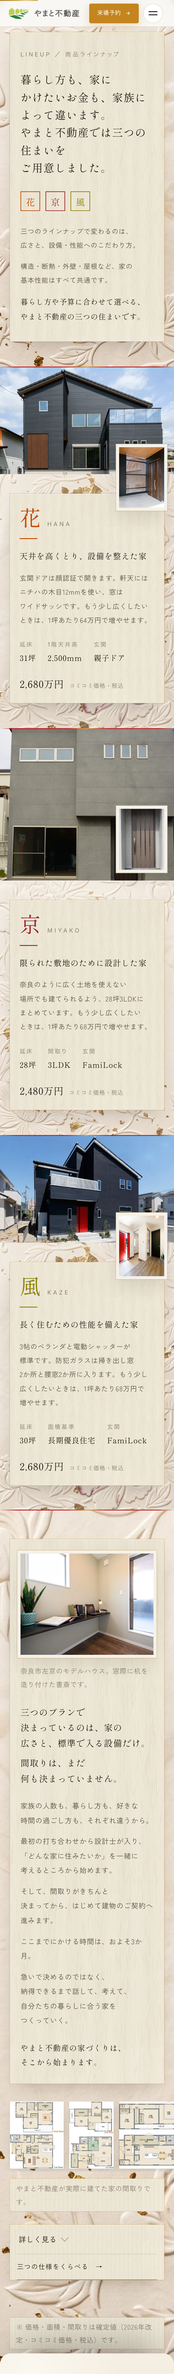
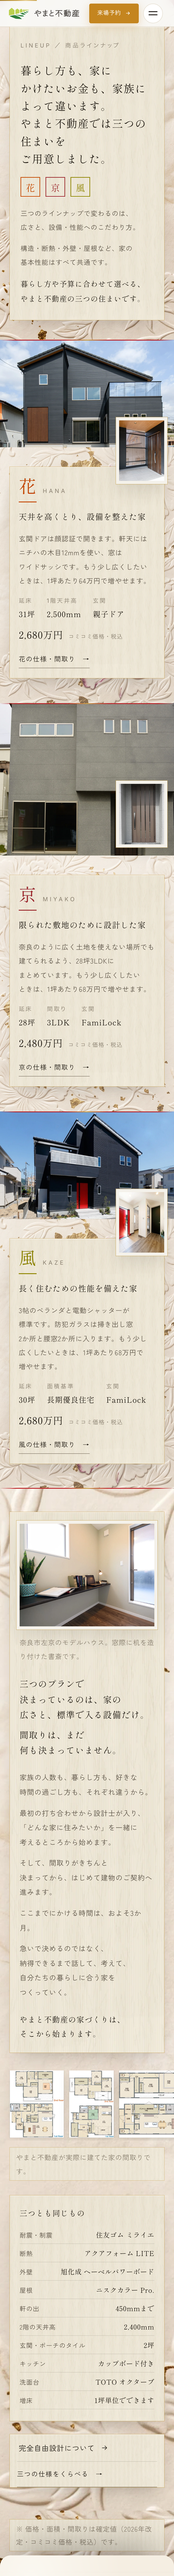
lineup: 密度設計の4手を適用（八芳園・星のや実測にもとづく）
ユーザー指摘「1セクションの役割・情報が少ない。間延びしている」。
実測の結論: 密度は文章ではなく「出口」と「構造化されたリスト」に住む。
上層は詩、下層はデータ。節は短く、すべての節が扉。

1. 縦を詰めた: 節全体 5.6画面 → 5.45画面（内容は増やした上で）
   - パネル/紙葉/入口のパディングを一段圧縮、花京風の大文字を 4.6→3.6rem
   - min-height を下げても効かなかった（下限であって上限ではない。中身が器を超えていた）
   - 京の帯895pxの真因: media img の height:100% が不定高の親で自然高に解決し、
     縦位置写真が行を押し広げていた。絶対配置で行＝パネル駆動に（895→662px）
2. 各帯に出口「花/京/風の仕様・間取り →」（リンク密度 1画面0.5本→2本強）
3. 共通仕様のデータ層「三つとも同じもの」を新設: 10項目の2列DL
   （ミライエ/アクアフォームLITE/ヘーベルパワーボード/ニスクカラーPro./軒450mm/
   2F天井2,400/タイル2坪/カップボード/オクターブ/増床1坪単位）
   共通仕様なので3列比較の問題は起きない。星のや「基本情報」型
4. 間取り6枚ストリップを madori.html#floorplans へのリンクに

あわせて帯のキャプション3つを撤去（本文と重複。帯が詰まって
キャプションが写真の暗部に乗り読めなくなっていた）。小図版は一回り縮小。

mobile-verify: #lineup 由来 FAIL 0。

diff --git a/index.html b/index.html
@@ -662,12 +662,12 @@
   /* 入り口: 台紙の上に紙葉。牡丹の環は縁が濃く中央が静かなので、
      紙葉が中央を覆っても縁の装飾が生きる。 */
   .lu-op{position:relative;overflow:hidden;
-    padding:clamp(72px,10vw,150px) var(--lu-gx) clamp(56px,7vw,104px);
+    padding:clamp(60px,8vw,120px) var(--lu-gx) clamp(44px,5.6vw,84px);
     background:var(--lu-mount) center top/cover var(--lu-paper)}
   .lu-op__in{position:relative;z-index:1;max-width:1180px;margin:0 auto;
     background:var(--lu-sheet-bg) center/cover #F4EEE0;
     box-shadow:var(--lu-sheet-edge);
-    padding:clamp(40px,5vw,80px) clamp(24px,4.2vw,72px)}
+    padding:clamp(32px,4vw,60px) clamp(24px,3.6vw,60px)}
   .lu-eyebrow{display:block;margin:0 0 clamp(26px,3.4vw,44px);font-family:var(--lu-fn);
     font-weight:400;font-size:.8rem;letter-spacing:.3em;color:var(--lu-sumi3);text-transform:uppercase}
   .lu-h{margin:0;line-break:strict;font-family:var(--lu-fm);font-weight:400;
@@ -684,7 +684,7 @@
   /* 角印 — ブランド自身の三シリーズの呼び方（パンフ p2） */
   /* ユーザー指定コピー（2026-08-21 章の入り口）。一字一句そのまま。
      「花・京・風」の一行は角印そのものが担うので、注記は置かない。 */
-  .lu-oplead{margin:clamp(30px,3.6vw,46px) 0 0;max-width:calc(40 * 1.045em)}
+  .lu-oplead{margin:clamp(22px,2.6vw,34px) 0 0;max-width:calc(40 * 1.045em)}
   .lu-oplead .lu-lead{margin:0 0 clamp(16px,1.9vw,24px)}
   .lu-oplead .lu-lead:last-child{margin-bottom:0}
   .lu-lead--end{font-family:var(--lu-fm);font-weight:400;color:var(--lu-sumi);
@@ -692,7 +692,7 @@
     margin-top:clamp(24px,2.8vw,34px)}
   .lu-seals{margin-bottom:0}
 
-  .lu-seals{display:flex;flex-wrap:wrap;gap:12px;align-items:center;margin:clamp(34px,4.2vw,52px) 0 0}
+  .lu-seals{display:flex;flex-wrap:wrap;gap:12px;align-items:center;margin:clamp(22px,2.8vw,36px) 0 0}
   .lu-seal{display:grid;place-items:center;width:44px;height:44px;font-family:var(--lu-fm);
     font-weight:400;font-size:1.28rem;line-height:1;padding-top:.06em;letter-spacing:0;
     box-shadow:inset 0 0 0 1.5px currentColor, inset 0 1px 2px rgba(36,30,22,.10), 0 1px 0 rgba(255,255,255,.7)}
@@ -715,14 +715,18 @@
   .lu-band--kaze::after{bottom:0}
   /* 高さは行側で与える。media に aspect-ratio を置くと stretch で確定した高さから
      幅を逆算して列を超え(実測1022px/列720px)、パネルの文字を覆う。 */
-  .lu-band--hana,.lu-band--kaze{min-height:clamp(420px,46vw,660px)}
-  .lu-band--kyo{min-height:clamp(480px,62vw,900px)}
+  /* 密度設計（2026-08-21 八芳園・星のや実測より）: 器を内容準拠に詰める。
+     1節0.7〜0.8画面が上位の相場。帯1枚1画面は長すぎた */
+  .lu-band--hana,.lu-band--kaze{min-height:clamp(340px,36vw,520px)}
+  .lu-band--kyo{min-height:clamp(400px,46vw,680px)}
   .lu-band__media{position:relative;overflow:hidden}
-  .lu-band__media img{width:100%;height:100%;object-fit:cover}
+  /* height:100% は不定高の親では自然高に解決し、縦位置写真（京）が行を895pxまで
+     押し広げていた。絶対配置で行の高さ＝パネル駆動にする */
+  .lu-band__media img{position:absolute;inset:0;width:100%;height:100%;object-fit:cover}
   .lu-band--flip .lu-band__media{order:2}
   /* 小図版 — 版面の縦の境界をまたぐ。大小の差が版に奥行きを作る */
   .lu-band__detail{position:absolute;z-index:2;left:50%;transform:translateX(-84%);
-    bottom:clamp(58px,6.2vw,88px);width:clamp(148px,15.5vw,228px);aspect-ratio:3/4;overflow:hidden;
+    bottom:clamp(44px,5vw,64px);width:clamp(120px,12.5vw,184px);aspect-ratio:3/4;overflow:hidden;
     box-shadow:0 0 0 clamp(7px,.85vw,12px) var(--lu-paper),
       0 0 0 calc(clamp(7px,.85vw,12px) + 1px) rgba(201,162,75,.55),
       0 18px 40px rgba(36,30,22,.13)}
@@ -738,44 +742,50 @@
   .lu-band__panel{position:relative;display:flex;flex-direction:column;justify-content:center;
     background:linear-gradient(rgba(244,241,234,.30),rgba(244,241,234,.30)),
       var(--lu-mount) center/cover var(--lu-paper);
-    padding:clamp(40px,5vw,76px) clamp(22px,3.6vw,64px)}
+    padding:clamp(26px,3.2vw,48px) clamp(20px,3vw,52px)}
   .lu-band--hana .lu-band__panel{background-position:center, right top}
   .lu-band--kyo  .lu-band__panel{background-position:center, left center}
   .lu-band--kaze .lu-band__panel{background-position:center, right bottom}
   .lu-band__in{max-width:34em;
     background:var(--lu-sheet-bg) center/cover #F4EEE0;
     box-shadow:var(--lu-sheet-edge);
-    padding:clamp(28px,3.4vw,48px) clamp(22px,3vw,44px)}
+    padding:clamp(22px,2.6vw,36px) clamp(20px,2.8vw,40px)}
   .lu-mark{display:flex;align-items:baseline;gap:clamp(14px,1.6vw,22px);margin:0}
   .lu-kanji{font-family:var(--lu-fm);font-weight:400;line-height:1;
     text-shadow:0 -1px 0 rgba(36,30,22,.16), 0 1px 0 rgba(255,255,255,.7);
-    font-size:clamp(2.9rem,2rem + 3.9vw,4.6rem);letter-spacing:.02em}
+    font-size:clamp(2.4rem,1.8rem + 2.6vw,3.6rem);letter-spacing:.02em}
   .lu-romaji{font-family:var(--lu-fn);font-weight:400;font-size:.8rem;letter-spacing:.34em;
     color:var(--lu-sumi3);text-transform:uppercase}
-  .lu-rule{width:clamp(40px,5vw,70px);height:2px;margin:clamp(24px,2.8vw,34px) 0 0}
-  .lu-label{margin:clamp(22px,2.6vw,32px) 0 0;text-wrap:balance;line-break:strict;word-break:auto-phrase;
+  .lu-rule{width:clamp(40px,5vw,70px);height:2px;margin:clamp(16px,1.9vw,24px) 0 0}
+  .lu-label{margin:clamp(16px,1.9vw,24px) 0 0;text-wrap:balance;line-break:strict;word-break:auto-phrase;
     font-family:var(--lu-fm);font-weight:400;font-size:clamp(1.12rem,.98rem + .58vw,1.46rem);
     line-height:1.72;letter-spacing:.06em}
   .lu-body{margin:clamp(18px,2.1vw,26px) 0 0;line-break:strict;word-break:auto-phrase;
     font-size:clamp(.95rem,.92rem + .16vw,1.02rem);line-height:2.04;letter-spacing:.045em;color:var(--lu-sumi2)}
   .lu-facts{display:flex;flex-wrap:wrap;gap:0 clamp(26px,3.2vw,46px);
-    margin:clamp(30px,3.4vw,42px) 0 0;padding:0;list-style:none}
+    margin:clamp(20px,2.4vw,30px) 0 0;padding:0;list-style:none}
   .lu-facts li{display:flex;flex-direction:column;gap:7px}
   .lu-facts .k{font-family:var(--lu-fn);font-weight:400;font-size:.8rem;letter-spacing:.2em;
     color:var(--lu-sumi3);text-transform:uppercase}
   .lu-facts .v{font-family:var(--lu-fm);font-weight:400;font-size:1.06rem;letter-spacing:.05em}
-  .lu-price{margin:clamp(30px,3.4vw,42px) 0 0;display:flex;flex-wrap:wrap;align-items:baseline;gap:4px 12px}
+  .lu-price{margin:clamp(18px,2.2vw,28px) 0 0;display:flex;flex-wrap:wrap;align-items:baseline;gap:4px 12px}
   /* 320pxで「2,680万|円」と数字の途中で割れた。金額と注記は語として不可分 */
   .lu-price b,.lu-price span{white-space:nowrap}
   .lu-price b{font-family:var(--lu-fm);font-weight:400;
     font-size:clamp(1.36rem,1.1rem + 1.05vw,1.92rem);letter-spacing:.03em}
   .lu-price span{font-size:.8rem;letter-spacing:.06em;color:var(--lu-sumi3)}
+    /* 各帯の出口。読者が帯単位で離脱できる（密度設計②） */
+  .lu-band__go{display:inline-flex;align-items:center;min-height:44px;
+    margin-top:clamp(16px,2vw,24px);
+    font-family:var(--lu-fg);font-weight:400;font-size:.92rem;letter-spacing:.08em;
+    color:var(--lu-sumi);text-decoration:none;box-shadow:inset 0 -1px 0 var(--lu-sumi3)}
+  .lu-band__go:hover{box-shadow:inset 0 -1px 0 var(--lu-sumi)}
   .lu-band--hana .lu-kanji{color:var(--lu-hana)} .lu-band--hana .lu-rule{background:var(--lu-hana)}
   .lu-band--kyo  .lu-kanji{color:var(--lu-kyo)}  .lu-band--kyo  .lu-rule{background:var(--lu-kyo)}
   .lu-band--kaze .lu-kanji{color:var(--lu-kaze)} .lu-band--kaze .lu-rule{background:var(--lu-kaze)}
 
   /* ───── 章の出口 ───── */
-  .lu-cl{position:relative;overflow:hidden;padding:clamp(64px,8vw,120px) var(--lu-gx);
+  .lu-cl{position:relative;overflow:hidden;padding:clamp(52px,6.4vw,96px) var(--lu-gx);
     background:var(--lu-mount) center bottom/cover var(--lu-paper)}
   .lu-cl__in{max-width:1180px;margin:0 auto}
   /* 自由設計の断り。三つの帯が「決まった商品が三つ」に読めるので、
@@ -785,7 +795,24 @@
      左＝その場で開く（シェブロン）／右＝別ページへ（矢印）。
      <summary> の中に <a> は置けないので、CTA は details の兄弟にして
      summary 行へ重ねている。SPでは重ねずに下へ落とす。 */
-  .lu-doors{position:relative;margin:clamp(30px,3.6vw,44px) 0 0;
+  /* 共通仕様のデータ層（密度設計③・星のや「基本情報」型）。
+     共通仕様なので3列比較の問題は起きない。dt/ddは構造データ扱い */
+  .lu-common{margin:clamp(34px,4vw,52px) 0 0;
+    background:var(--lu-sheet-bg) center/cover #F4EEE0;
+    box-shadow:var(--lu-sheet-edge);
+    padding:clamp(26px,3.2vw,44px) clamp(22px,3vw,44px)}
+  .lu-common__h{margin:0 0 clamp(16px,2vw,24px);font-family:var(--lu-fm);font-weight:400;
+    font-size:clamp(1.06rem,.98rem + .34vw,1.26rem);letter-spacing:.08em;color:var(--lu-sumi)}
+  .lu-common__dl{margin:0;display:grid;grid-template-columns:repeat(2,minmax(0,1fr));
+    column-gap:clamp(28px,3.6vw,56px)}
+  .lu-common__dl>div{display:flex;align-items:baseline;justify-content:space-between;gap:14px;
+    padding:clamp(9px,1.1vw,13px) 0;border-bottom:1px solid rgba(36,30,22,.12)}
+  .lu-common__dl dt{font-family:var(--lu-fg);font-weight:400;font-size:.88rem;
+    letter-spacing:.05em;color:var(--lu-sumi2);white-space:nowrap}
+  .lu-common__dl dd{margin:0;font-family:var(--lu-fm);font-weight:400;font-size:.95rem;
+    letter-spacing:.04em;color:var(--lu-sumi);text-align:right}
+  @media (max-width:640px){ .lu-common__dl{grid-template-columns:minmax(0,1fr)} }
+    .lu-doors{position:relative;margin:clamp(30px,3.6vw,44px) 0 0;
     background:var(--lu-sheet-bg) center/cover #F4EEE0;
     box-shadow:var(--lu-sheet-edge);
     padding:0 clamp(16px,2vw,28px)}
@@ -914,7 +941,7 @@
   .lu-freewrap{display:grid;grid-template-columns:minmax(0,1fr);gap:clamp(30px,3.4vw,44px);
     background:var(--lu-sheet-bg) center/cover #F4EEE0;
     box-shadow:var(--lu-sheet-edge);
-    padding:clamp(32px,4vw,64px) clamp(24px,3.6vw,60px)}
+    padding:clamp(26px,3.2vw,48px) clamp(22px,3vw,48px)}
   @media (min-width:960px){
     .lu-freewrap{grid-template-columns:minmax(0,46%) minmax(0,1fr);
       column-gap:clamp(38px,4.2vw,64px);align-items:start}
@@ -1738,7 +1765,6 @@
 
   <div class="lu-band lu-band--hana">
     <div class="lu-band__detail"><img src="assets/lineup/hero/hana_det.webp" alt="花の玄関ポーチと木目の軒天" loading="lazy" decoding="async"></div>
-    <span class="lu-cap">PORCH ／ 軒天 ニチハ木目12mm</span>
     <div class="lu-band__media"><img src="assets/lineup/hero/hana_ext.webp" alt="花のモデルハウス外観" loading="lazy" decoding="async"></div>
     <div class="lu-band__panel"><div class="lu-band__in">
       <p class="lu-mark"><span class="lu-kanji">花</span><span class="lu-romaji">Hana</span></p>
@@ -1751,12 +1777,12 @@
         <li><span class="k">玄関</span><span class="v">親子ドア</span></li>
       </ul>
       <p class="lu-price"><b>2,680万円</b><span>コミコミ価格・税込</span></p>
+      <a class="lu-band__go" href="madori.html#plans">花の仕様・間取り　→</a>
     </div></div>
   </div>
 
   <div class="lu-band lu-band--kyo lu-band--flip">
     <div class="lu-band__detail"><img src="assets/lineup/hero/kyo_det.webp" alt="京の玄関ドア" loading="lazy" decoding="async"></div>
-    <span class="lu-cap">ENTRANCE ／ ジエスタ2 片開き</span>
     <div class="lu-band__media"><img src="assets/lineup/hero/kyo_ext.webp" alt="京のモデルハウス外観" loading="lazy" decoding="async"></div>
     <div class="lu-band__panel"><div class="lu-band__in">
       <p class="lu-mark"><span class="lu-kanji">京</span><span class="lu-romaji">Miyako</span></p>
@@ -1769,12 +1795,12 @@
         <li><span class="k">玄関</span><span class="v">FamiLock</span></li>
       </ul>
       <p class="lu-price"><b>2,480万円</b><span>コミコミ価格・税込</span></p>
+      <a class="lu-band__go" href="madori.html#plans">京の仕様・間取り　→</a>
     </div></div>
   </div>
 
   <div class="lu-band lu-band--kaze">
     <div class="lu-band__detail"><img src="assets/lineup/hero/kaze_det.webp" alt="風の玄関土間とホール" loading="lazy" decoding="async"></div>
-    <span class="lu-cap">ENTRANCE ／ 玄関土間とホール</span>
     <div class="lu-band__media"><img src="assets/lineup/hero/kaze_ext.webp" alt="風のモデルハウス外観" loading="lazy" decoding="async"></div>
     <div class="lu-band__panel"><div class="lu-band__in">
       <p class="lu-mark"><span class="lu-kanji">風</span><span class="lu-romaji">Kaze</span></p>
@@ -1787,6 +1813,7 @@
         <li><span class="k">玄関</span><span class="v">FamiLock</span></li>
       </ul>
       <p class="lu-price"><b>2,680万円</b><span>コミコミ価格・税込</span></p>
+      <a class="lu-band__go" href="madori.html#plans">風の仕様・間取り　→</a>
     </div></div>
   </div>
 
@@ -1811,14 +1838,30 @@
 
       <div class="lu-plans">
         <div class="lu-plans__rail">
-          <figure class="lu-plan"><img src="assets/madori/madori_ex01.webp" alt="実際に建てた家の間取り例 LDK22帖・土間収納・パントリー" loading="lazy" decoding="async"></figure>
-          <figure class="lu-plan"><img src="assets/madori/madori_ex02.webp" alt="実際に建てた家の間取り例 LDK20帖・和室4.5帖・吹き抜け" loading="lazy" decoding="async"></figure>
-          <figure class="lu-plan"><img src="assets/madori/madori_ex03.webp" alt="実際に建てた家の間取り例 LDK21帖・家事室・大空間収納" loading="lazy" decoding="async"></figure>
-          <figure class="lu-plan"><img src="assets/madori/madori_ex04.webp" alt="実際に建てた家の間取り例 LDK19.9帖・和室4.5帖・ランドリールーム" loading="lazy" decoding="async"></figure>
-          <figure class="lu-plan"><img src="assets/madori/madori_ex05.webp" alt="実際に建てた家の間取り例 LDK24.5帖・書斎・ウッドデッキ" loading="lazy" decoding="async"></figure>
-          <figure class="lu-plan"><img src="assets/madori/kyo_example.webp" alt="実際に建てた家の間取り例 LDK18.7帖・コンパクト設計" loading="lazy" decoding="async"></figure>
+          <figure class="lu-plan"><a href="madori.html#floorplans"><img src="assets/madori/madori_ex01.webp" alt="実際に建てた家の間取り例 LDK22帖・土間収納・パントリー" loading="lazy" decoding="async"></a></figure>
+          <figure class="lu-plan"><a href="madori.html#floorplans"><img src="assets/madori/madori_ex02.webp" alt="実際に建てた家の間取り例 LDK20帖・和室4.5帖・吹き抜け" loading="lazy" decoding="async"></a></figure>
+          <figure class="lu-plan"><a href="madori.html#floorplans"><img src="assets/madori/madori_ex03.webp" alt="実際に建てた家の間取り例 LDK21帖・家事室・大空間収納" loading="lazy" decoding="async"></a></figure>
+          <figure class="lu-plan"><a href="madori.html#floorplans"><img src="assets/madori/madori_ex04.webp" alt="実際に建てた家の間取り例 LDK19.9帖・和室4.5帖・ランドリールーム" loading="lazy" decoding="async"></a></figure>
+          <figure class="lu-plan"><a href="madori.html#floorplans"><img src="assets/madori/madori_ex05.webp" alt="実際に建てた家の間取り例 LDK24.5帖・書斎・ウッドデッキ" loading="lazy" decoding="async"></a></figure>
+          <figure class="lu-plan"><a href="madori.html#floorplans"><img src="assets/madori/kyo_example.webp" alt="実際に建てた家の間取り例 LDK18.7帖・コンパクト設計" loading="lazy" decoding="async"></a></figure>
         </div>
         <p class="lu-plans__cap">やまと不動産が実際に建てた家の間取りです。</p>
+      </div>
+
+      <div class="lu-common">
+        <h3 class="lu-common__h">三つとも同じもの</h3>
+        <dl class="lu-common__dl">
+          <div><dt>耐震・制震</dt><dd>住友ゴム ミライエ</dd></div>
+          <div><dt>断熱</dt><dd>アクアフォーム LITE</dd></div>
+          <div><dt>外壁</dt><dd>旭化成 ヘーベルパワーボード</dd></div>
+          <div><dt>屋根</dt><dd>ニスクカラー Pro.</dd></div>
+          <div><dt>軒の出</dt><dd>450mmまで</dd></div>
+          <div><dt>2階の天井高</dt><dd>2,400mm</dd></div>
+          <div><dt>玄関・ポーチのタイル</dt><dd>2坪</dd></div>
+          <div><dt>キッチン</dt><dd>カップボード付き</dd></div>
+          <div><dt>洗面台</dt><dd>TOTO オクターブ</dd></div>
+          <div><dt>増床</dt><dd>1坪単位でできます</dd></div>
+        </dl>
       </div>
 
       <div class="lu-doors">
